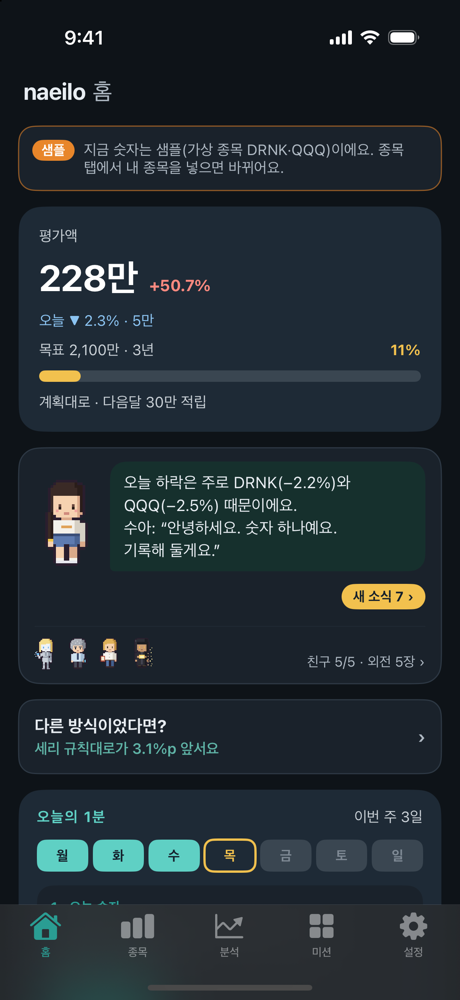
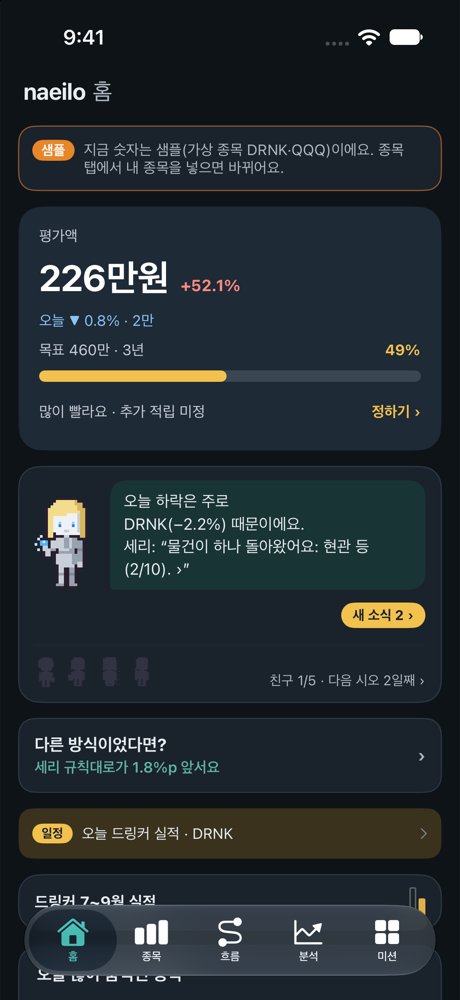
웹 입구: 직접 해보기를 탭 하나로(목표일 전망·내 몫 실적), 앱 그림 홈·설정 새로 찍고 내 길 대신 흐름, 해 보기 속 아래 탭을 앱처럼(홈·종목·흐름·분석·미션)

diff --git a/index.html b/index.html
@@ -28,7 +28,7 @@
 <meta name="twitter:description" content="수량만 넣으면, 내 자산의 내일이 보여요. 평가액, 본전·목표까지의 길과 확률을 보여 주는 아이폰 앱.">
 <meta name="twitter:image" content="https://naeilo.com/og.png">
 <script type="application/ld+json">{"@context":"https://schema.org","@type":"MobileApplication","name":"naeilo","alternateName":"내일로","url":"https://naeilo.com/","description":"보유 주식 수량만 넣으면 원화 평가액, 본전·목표까지의 길, 그 길에 닿을 확률을 보여 주는 자산 관찰 앱. 종목 추천·투자 자문이 아닙니다.","applicationCategory":"FinanceApplication","operatingSystem":"iOS","inLanguage":"ko"}</script>
-<link rel="stylesheet" href="entry.css?v=20261022b">
+<link rel="stylesheet" href="entry.css?v=20261022c">
 </head>
 <body>
 <header class="top wrap">
@@ -97,17 +97,23 @@
     <h2>앱을 열면, 인물이 먼저 말을 걸어요</h2>
     <p class="muted">세리·시오·선배·이르·수아가 오늘 숫자를 전해요 · 매매 추천 아님</p>
     <div class="rail">
-      <figure><div class="phone"><picture><source srcset="img/app-home-dark.png?v=1" media="(prefers-color-scheme: dark)"><img src="img/app-home.png?v=4" alt="naeilo 앱 홈 화면. 평가액 228만과 수아의 한마디" loading="lazy"></picture></div><figcaption>홈: 오늘 숫자와 한마디</figcaption></figure>
-      <figure><div class="phone"><picture><source srcset="img/app-mypath-dark.png?v=1" media="(prefers-color-scheme: dark)"><img src="img/app-mypath.png?v=2" alt="내 길 화면. 목표 2,100만, 가능성 반반 50%" loading="lazy"></picture></div><figcaption>내 길: 목표까지 어디쯤</figcaption></figure>
-      <figure><div class="phone"><picture><source srcset="img/app-settings-dark.png?v=1" media="(prefers-color-scheme: dark)"><img src="img/app-settings.png?v=3" alt="설정 화면. 내 오픈 API 키로 시세 받는 중" loading="lazy"></picture></div><figcaption>설정: 내 오픈 API 키로 시세</figcaption></figure>
+      <figure><div class="phone"><picture><source srcset="img/app-home-dark.png?v=2" media="(prefers-color-scheme: dark)"><img src="img/app-home.png?v=5" alt="naeilo 앱 홈 화면. 평가액 226만, 목표까지 49%와 세리의 한마디" loading="lazy"></picture></div><figcaption>홈: 오늘 숫자와 한마디</figcaption></figure>
+      <figure><div class="phone"><picture><source srcset="img/app-flow-dark.png?v=1" media="(prefers-color-scheme: dark)"><img src="img/app-flow.png?v=1" alt="흐름 화면. DRNK 일봉 그래프 위에 추세 이름표와 크고 작은 흐름 띠" loading="lazy"></picture></div><figcaption>흐름: 추세·패턴을 그래프로</figcaption></figure>
+      <figure><div class="phone"><picture><source srcset="img/app-settings-dark.png?v=2" media="(prefers-color-scheme: dark)"><img src="img/app-settings.png?v=4" alt="설정 화면. 내 오픈 API 키 연결, 내 목표, 알림과 위젯" loading="lazy"></picture></div><figcaption>설정: 내 오픈 API 키는 이 폰에만</figcaption></figure>
     </div>
     <p class="note">샘플 금액 · 가상 종목 DRNK·QQQ</p>
   </section>
 
-  <!-- 3. 직접 해보기: 아이폰 틀 안의 목표일 전망 -->
-  <section class="wrap try" id="try">
+  <!-- 3. 직접 해보기: 탭 두 개 (목표일 전망 · 내 몫 실적 강) -->
+  <section class="wrap" id="try">
+    <h2>직접 해보기</h2>
+    <div class="try-tabs" role="tablist" aria-label="해 볼 화면">
+      <button type="button" role="tab" id="tabFc" aria-controls="tryFc" aria-selected="true">목표일 전망</button>
+      <button type="button" role="tab" id="tabEarn" aria-controls="tryEarn" aria-selected="false" tabindex="-1">내 몫 실적</button>
+    </div>
+  <!-- 3-1. 목표일 전망: 아이폰 틀 안 -->
+  <div class="try" id="tryFc" role="tabpanel" aria-labelledby="tabFc">
     <div class="try-text">
-      <h2>직접 해보기</h2>
       <p class="muted">앱의 목표일 전망이에요. 막대를 밀면 그래프가 바뀌어요.</p>
       <p class="small muted">예시 자산 1억 · 목표 1.5억 · 3년 · 연 7~11%, 흔들림 16% 가정. 앱은 내 종목으로.</p>
     </div>
@@ -136,15 +142,15 @@
             <p class="fc-msg" id="fcMsg"></p>
           </div>
         </div>
-        <div class="tabs" aria-hidden="true"><span>홈</span><span>종목</span><span class="on">분석</span><span>미션</span><span>설정</span></div>
+        <!-- 앱 아래 탭 (App.swift: 홈·종목·흐름·분석·미션, 떠 있는 둥근 막대) -->
+        <div class="tabs" aria-hidden="true"><span><svg viewBox="0 0 24 24"><path d="M12 2.6 1.8 11.4h2.9V21h5.6v-6h3.4v6h5.6v-9.6h2.9z"/></svg>홈</span><span><svg viewBox="0 0 24 24"><rect x="2.5" y="11" width="5.4" height="10" rx="1.6"/><rect x="9.3" y="7" width="5.4" height="14" rx="1.6"/><rect x="16.1" y="3" width="5.4" height="18" rx="1.6"/></svg>종목</span><span><svg viewBox="0 0 24 24"><path d="M17 5H9.3a3.5 3.5 0 0 0 0 7h5.4a3.5 3.5 0 0 1 0 7H7" fill="none" stroke="currentColor" stroke-width="2.4" stroke-linecap="round"/><circle cx="18" cy="5" r="2.8"/><circle cx="6" cy="19" r="2.8"/></svg>흐름</span><span class="on"><svg viewBox="0 0 24 24"><path d="M3 3v18h18M6.5 16l4-5 3 3 6-7M15.5 7h4v4" fill="none" stroke="currentColor" stroke-width="2" stroke-linecap="round" stroke-linejoin="round"/></svg>분석</span><span><svg viewBox="0 0 24 24"><rect x="2.5" y="2.5" width="8.6" height="8.6" rx="2.2"/><rect x="12.9" y="2.5" width="8.6" height="8.6" rx="2.2"/><rect x="2.5" y="12.9" width="8.6" height="8.6" rx="2.2"/><rect x="12.9" y="12.9" width="8.6" height="8.6" rx="2.2"/></svg>미션</span></div>
       </div>
     </div>
-  </section>
+  </div>
 
-  <!-- 3-2. 직접 해보기: 내 몫 실적 강 (앱 EarningsRiver.swift 와 같은 그림, 계산은 tools/earn_calc.mjs) -->
-  <section class="wrap try" id="tryEarn">
+  <!-- 3-2. 내 몫 실적 강 (앱 EarningsRiver.swift 와 같은 그림, 계산은 tools/earn_calc.mjs) -->
+  <div class="try" id="tryEarn" role="tabpanel" aria-labelledby="tabEarn" hidden>
     <div class="try-text">
-      <h2>내 몫 실적</h2>
       <p class="muted">종목과 수량을 넣으면, 회사가 이번 분기 번 돈 중 내 몫이 강으로 흘러요.</p>
       <form class="earn-in" id="earnForm" autocomplete="off">
         <label><span class="small muted">종목</span><input id="earnSym" list="earnSyms" value="DRNK" aria-label="종목 기호" spellcheck="false"></label>
@@ -159,6 +165,7 @@
         <div class="earn-dots" id="earnDots" aria-hidden="true"></div>
       </div>
     </div>
+  </div>
   </section>
 
   <section class="wrap price" id="price">
@@ -202,6 +209,6 @@
   <span>© naeilo</span>
 </footer>
 
-<script src="entry.js?v=20261022b"></script>
+<script src="entry.js?v=20261022c"></script>
 </body>
 </html>

diff --git a/entry.css b/entry.css
@@ -112,6 +112,11 @@ figcaption { font-size: 0.875rem; color: var(--muted); margin-top: 10px; }
 
 /* ---------------------------------------------------------------- 3. 직접 해보기: 앱 목표일 전망 (앱 밝은 테마 색) */
 .try { display: grid; grid-template-columns: 1fr auto; gap: 40px; align-items: center; }
+.try[hidden] { display: none; }
+/* 해 보기 탭: 목표일 전망 · 내 몫 실적 */
+.try-tabs { display: inline-flex; gap: 4px; padding: 4px; margin: 4px 0 24px; border-radius: 14px; background: var(--card); box-shadow: inset 0 0 0 1px var(--line); }
+.try-tabs button { border: 0; border-radius: 10px; padding: 8px 16px; background: none; font: inherit; font-size: 0.9375rem; color: var(--muted); cursor: pointer; white-space: nowrap; }
+.try-tabs button[aria-selected="true"] { background: var(--accent); color: var(--accent-ink); font-weight: 700; }
 .try-text p { max-width: 420px; }
 .scr { --a-bg: #0e1318; --a-card: #1a222b; --a-text: #e8edf2; --a-mut: #7f8a95; --teal: #2a9d93; --teal-d: #8fd8ce; --teal-bg: #173531; --a-sub: #aeb8c2; --a-line: #26303a; --orange: #e8862a; --green: #12a06e; --a-up: #f07468; --teal-rgb: 42, 157, 147; --a-tab: #141a21; --a-tabline: #26303a; --a-tabtx: #7f8a95; background: var(--a-bg); color: var(--a-text); display: flex; flex-direction: column; font-size: 13px; line-height: 1.4; }
 @media (prefers-color-scheme: light) { .scr { --a-bg: #f2f4f6; --a-card: #fff; --a-text: #15202b; --a-mut: #8a949e; --teal: #0b6b66; --teal-d: #0b4f4b; --teal-bg: #e3f1ef; --a-sub: #4a5560; --a-line: #eef1f3; --orange: #e8862a; --green: #12a06e; --a-up: #c0392b; --teal-rgb: 11, 107, 102; --a-tab: #fafbfc; --a-tabline: #e3e8ec; --a-tabtx: #9aa6b0; } }
@@ -164,8 +169,11 @@ figcaption { font-size: 0.875rem; color: var(--muted); margin-top: 10px; }
 .fc-row.on { background: var(--teal-bg); font-weight: 700; }
 .fc-th { font-size: 10.5px; color: var(--a-mut); padding-top: 0; padding-bottom: 0; cursor: default; }
 .fc-msg { margin: 4px 0 0; font-size: 11.5px; color: var(--a-sub); }
-.tabs { display: flex; justify-content: space-around; padding: 9px 0 22px; border-top: 1px solid var(--a-tabline); background: var(--a-tab); font-size: 10px; color: var(--a-tabtx); }
-.tabs .on { color: var(--teal); font-weight: 700; }
+/* 앱 아래 탭: 떠 있는 둥근 막대, 고른 칸은 회색 알약 + 청록 */
+.tabs { display: flex; margin: 0 10px 14px; padding: 3px; border-radius: 26px; background: var(--a-tab); box-shadow: 0 0 0 1px var(--a-tabline), 0 6px 16px rgba(0, 0, 0, 0.12); font-size: 9.5px; color: var(--a-text); }
+.tabs span { flex: 1; display: flex; flex-direction: column; align-items: center; gap: 1px; padding: 5px 0 4px; border-radius: 22px; }
+.tabs svg { width: 19px; height: 19px; fill: currentColor; }
+.tabs .on { color: var(--teal); background: rgba(127, 140, 150, 0.16); }
 
 /* ---------------------------------------------------------------- 구독 */
 .price h2 { margin-bottom: 6px; }

diff --git a/entry.js b/entry.js
@@ -414,3 +414,25 @@
   } else seen = true;
   fxReady.then(load);
 })();
+
+// 해 보기 탭: 목표일 전망 · 내 몫 실적 (화살표 키로도 옮김)
+(() => {
+  const tabs = [...document.querySelectorAll(".try-tabs [role=tab]")];
+  if (!tabs.length) return;
+  const pick = (t, focus) => {
+    tabs.forEach((b) => {
+      const on = b === t;
+      b.setAttribute("aria-selected", on);
+      b.tabIndex = on ? 0 : -1;
+      document.getElementById(b.getAttribute("aria-controls")).hidden = !on;
+    });
+    if (focus) t.focus();
+  };
+  tabs.forEach((t, i) => {
+    t.addEventListener("click", () => pick(t));
+    t.addEventListener("keydown", (e) => {
+      const d = e.key === "ArrowRight" ? 1 : e.key === "ArrowLeft" ? -1 : 0;
+      if (d) { e.preventDefault(); pick(tabs[(i + d + tabs.length) % tabs.length], true); }
+    });
+  });
+})();
